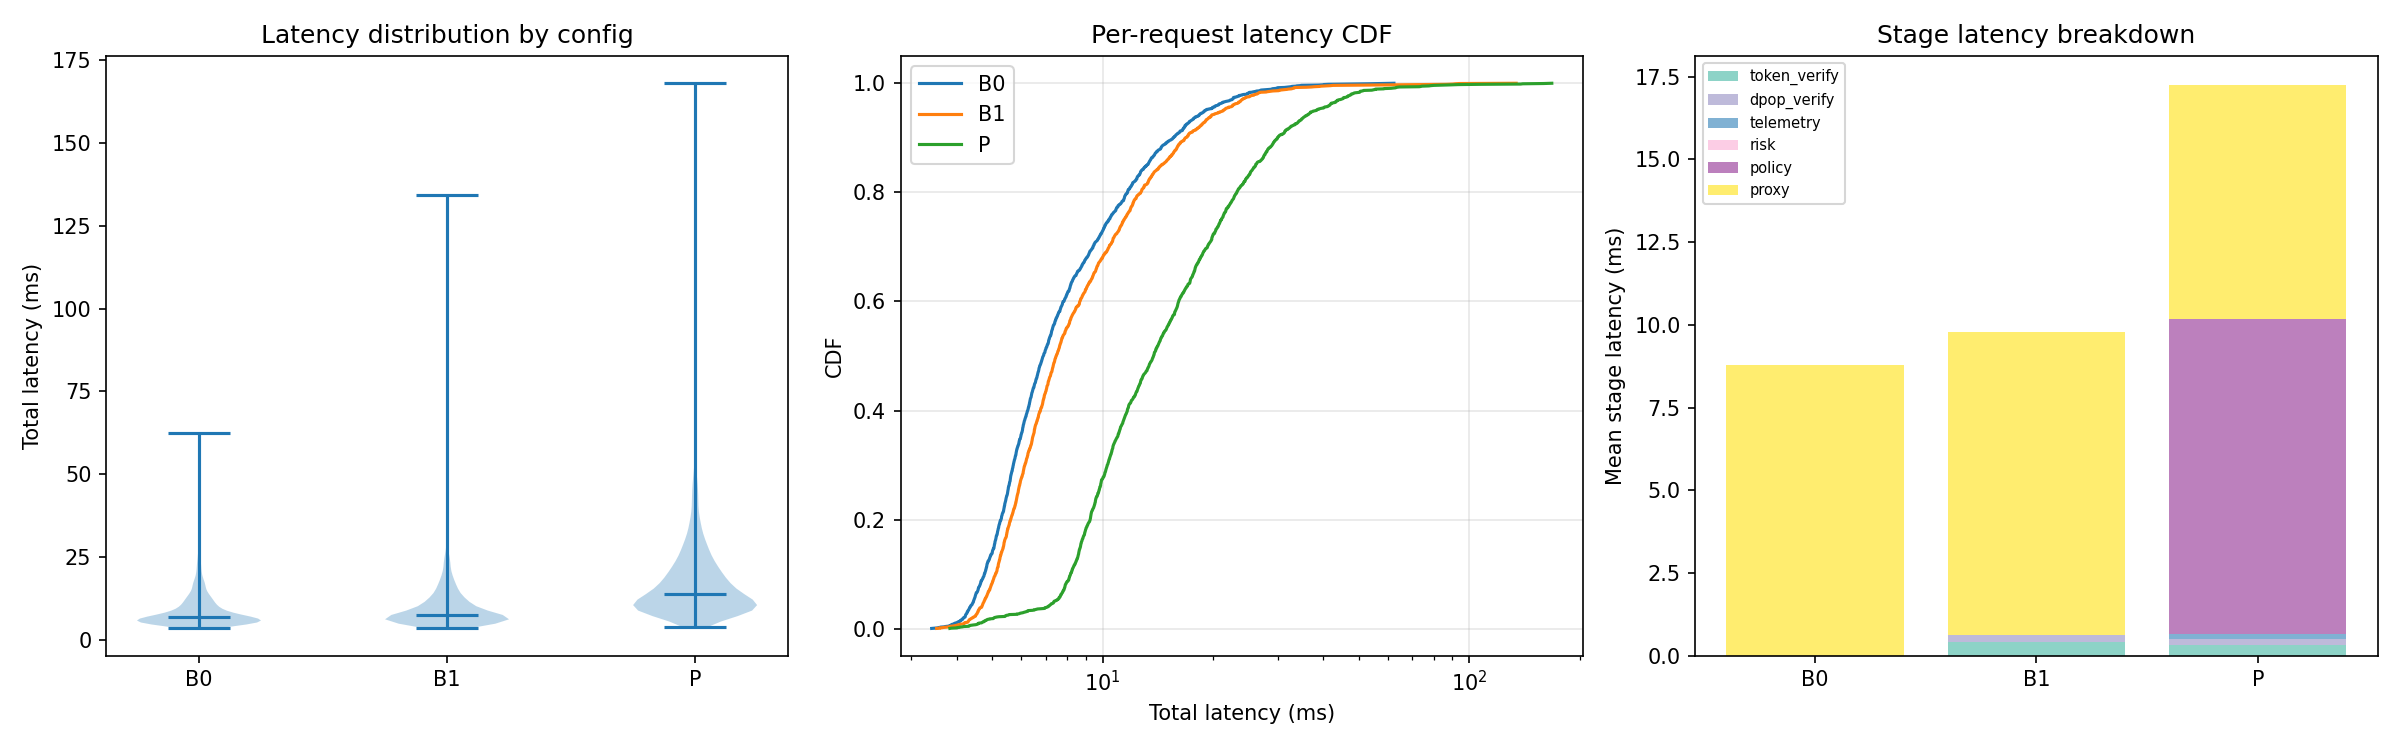
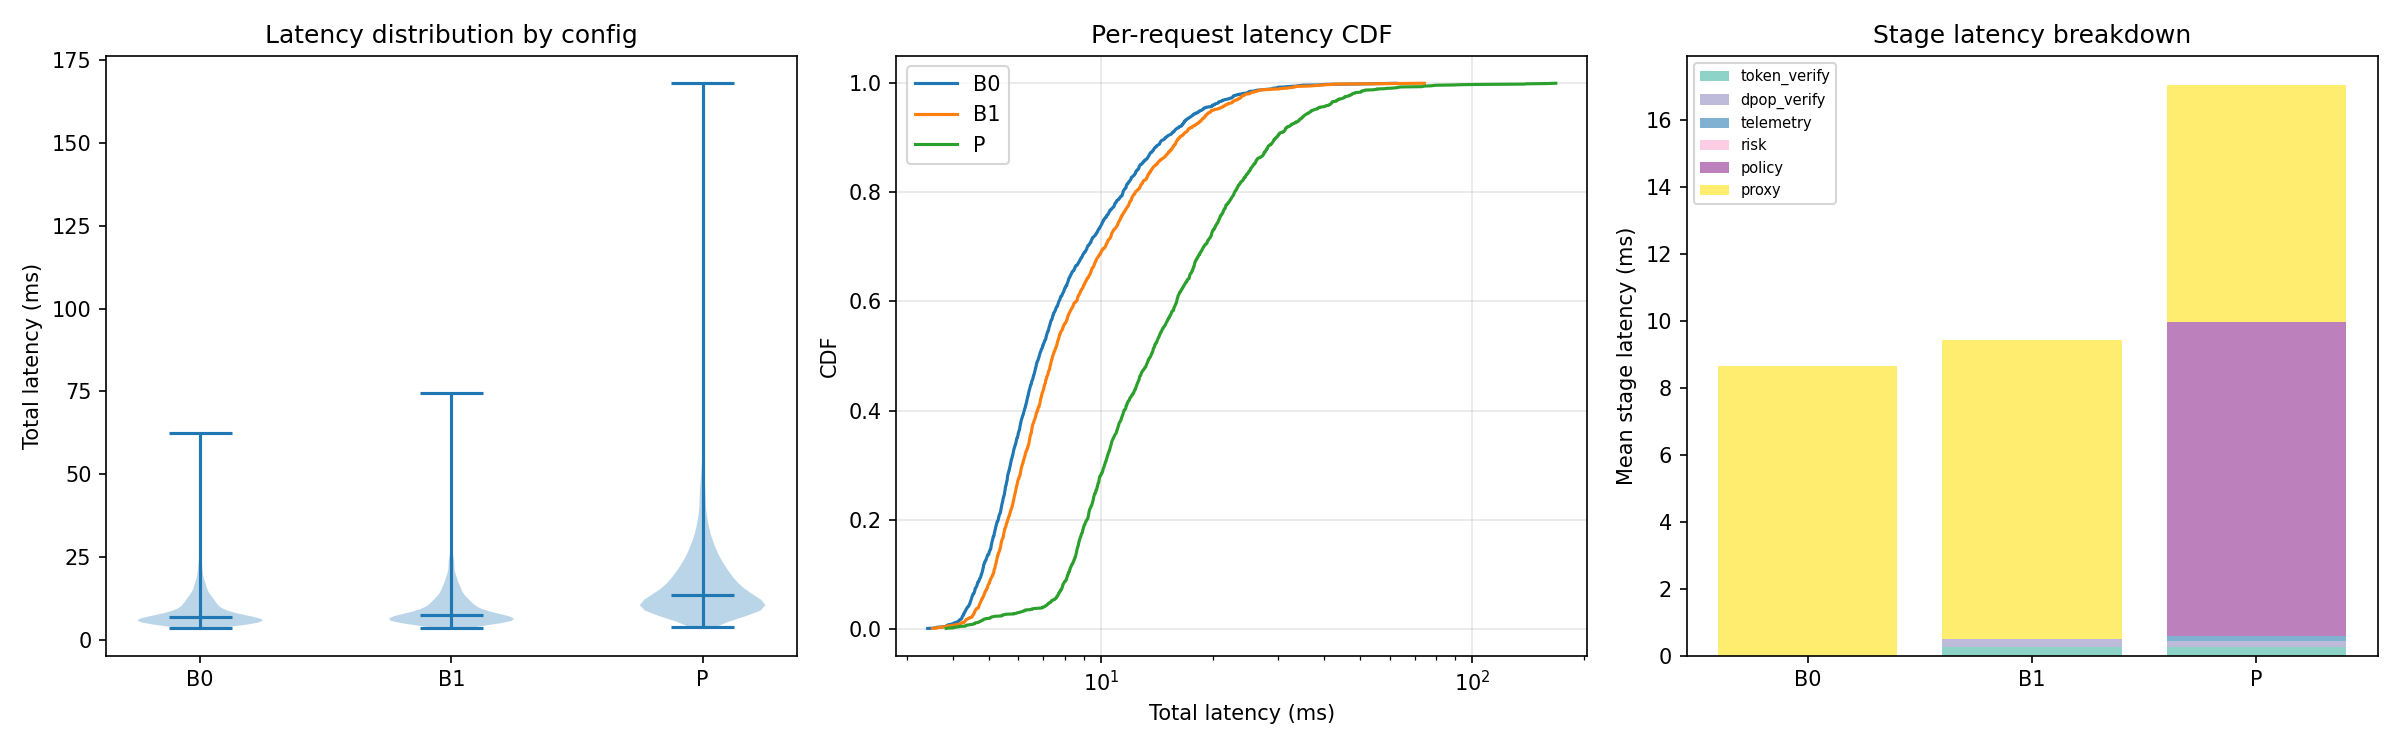
Add the load-scaling sweep and the warm-up exclusion §8 already promised
RQ2 asks for the overhead "across increasing load" and §7.3 cites a
throughput-vs-concurrency figure; every performance number came from a single
20-user run. `make scaling` sweeps 5/10/20/40 concurrent users per
configuration and the analysis recomputes achieved throughput from the
controller's own timestamps, so it counts the same requests the latency
percentiles do rather than a separately-scraped load-generator summary.

§8 states that warm-up is excluded and nothing implemented it. Each workload
starts against a freshly restarted container and the cold-start cost is large
enough to dominate a short run: the first sweep's 5-user B0 cell reported a
53 ms median against ~11 ms once the opening seconds are dropped, which made
the lowest-concurrency cell look like the slowest of the sweep. Analysis now
drops each run's first five seconds of legitimate traffic, which also removes
four spurious CHALLENGE decisions from Table 2.

Regenerated every table and figure. All are measured, and every number the
paper will cite traces to one of these CSVs.

diff --git a/analysis/make_figures.py b/analysis/make_figures.py
@@ -109,13 +109,37 @@ def _load_attack_summary(directory: Path) -> pd.DataFrame:
     return pd.DataFrame(rows)
 
 
-def _legit(df: pd.DataFrame, run_prefix: str = "") -> pd.DataFrame:
+WARMUP_SECONDS = 5.0
+
+
+def _drop_warmup_window(df: pd.DataFrame, seconds: float = WARMUP_SECONDS) -> pd.DataFrame:
+    """
+    Drop each run's first `seconds` of traffic.
+
+    §8 states that warm-up is excluded and nothing implemented it. It is not a
+    cosmetic exclusion: every workload starts against a freshly restarted
+    container, and the cold-start cost is large enough to dominate a short run
+    (the 5-user B0 scaling cell reports a 53 ms median over the whole run
+    against ~7 ms once the first seconds are dropped), which would make the
+    lowest-concurrency cell look like the slowest.
+    """
+    if df.empty or "ts" not in df.columns:
+        return df
+    out = df.copy()
+    out["_ts"] = pd.to_datetime(out["ts"], format="ISO8601", utc=True, errors="coerce")
+    start = out.groupby("run_id")["_ts"].transform("min")
+    out = out[out["_ts"] >= start + pd.Timedelta(seconds=seconds)]
+    return out.drop(columns=["_ts"])
+
+
+def _legit(df: pd.DataFrame, run_prefix: str = "", drop_warmup: bool = True) -> pd.DataFrame:
     """
     Legitimate workload requests only.
 
-    Excludes attack traffic and the harness warm-up requests that establish a
-    subject's baseline — the warm-up is instrumentation, not workload, and
-    counting it would dilute every rate reported per context profile.
+    Excludes attack traffic, the harness warm-up requests that establish a
+    subject's baseline (instrumentation, not workload — counting them would
+    dilute every rate reported per context profile), and each run's opening
+    warm-up window.
     """
     if df.empty:
         return df
@@ -123,6 +147,8 @@ def _legit(df: pd.DataFrame, run_prefix: str = "") -> pd.DataFrame:
              (df["request.context_profile"].isin(["stable", "drift"]))]
     if run_prefix:
         out = out[out["run_id"].astype(str).str.startswith(run_prefix)]
+    if drop_warmup:
+        out = _drop_warmup_window(out)
     return out
 
 
@@ -718,6 +744,75 @@ def table_risk_components(raw_df: pd.DataFrame):
         print("[OK] table7_risk_components.csv")
 
 
+# ─── Table 8 + figure: latency and throughput vs concurrency (RQ2) ──────────
+
+def table_scaling(raw_df: pd.DataFrame):
+    """
+    Table 8 — how the enforcement overhead moves as offered load rises.
+
+    RQ2 asks for the overhead "across increasing load" and a single
+    concurrency level cannot answer it. Achieved throughput is recomputed from
+    the controller's own timestamps rather than scraped from the load
+    generator's summary, so it counts the same requests the latency figures do.
+    """
+    if raw_df.empty:
+        return
+    scale = raw_df[raw_df["run_id"].astype(str).str.startswith("scale_")]
+    legit = _legit(scale)
+    if legit.empty:
+        print("[WARN] No scaling data for table8")
+        return
+    legit = legit.copy()
+    legit["_ts"] = pd.to_datetime(legit["ts"], format="ISO8601", utc=True, errors="coerce")
+    legit["users"] = legit["run_id"].astype(str).str.split("_").str[-1].astype(int)
+
+    rows = []
+    for (cfg, users), sub in legit.groupby(["run_label", "users"]):
+        vals = sub["latency_ms.total"].dropna()
+        if vals.empty:
+            continue
+        span = (sub["_ts"].max() - sub["_ts"].min()).total_seconds()
+        rows.append({
+            "Config": cfg,
+            "users": int(users),
+            "n": len(vals),
+            "achieved_rps": round(len(vals) / span, 2) if span > 0 else "",
+            "p50_ms": round(float(np.percentile(vals, 50)), 3),
+            "p95_ms": round(float(np.percentile(vals, 95)), 3),
+            "p99_ms": round(float(np.percentile(vals, 99)), 3),
+            "mean_ms": round(float(vals.mean()), 3),
+        })
+    if not rows:
+        return
+    df = pd.DataFrame(rows).sort_values(["Config", "users"])
+    df.to_csv(TBL_DIR / "table8_scaling.csv", index=False)
+    print("[OK] table8_scaling.csv")
+
+    fig, axes = plt.subplots(1, 2, figsize=(12, 5))
+    for cfg in CONFIGS:
+        sub = df[df["Config"] == cfg]
+        if sub.empty:
+            continue
+        axes[0].plot(sub["users"], sub["p50_ms"], "o-", label=f"{cfg} p50")
+        axes[0].plot(sub["users"], sub["p95_ms"], "s--", alpha=0.6, label=f"{cfg} p95")
+        axes[1].plot(sub["users"], pd.to_numeric(sub["achieved_rps"], errors="coerce"),
+                     "o-", label=cfg)
+    axes[0].set_xlabel("Concurrent users")
+    axes[0].set_ylabel("Latency (ms)")
+    axes[0].set_title("Latency vs concurrency")
+    axes[0].legend(fontsize=7)
+    axes[0].grid(alpha=0.3)
+    axes[1].set_xlabel("Concurrent users")
+    axes[1].set_ylabel("Achieved throughput (req/s)")
+    axes[1].set_title("Throughput vs concurrency")
+    axes[1].legend()
+    axes[1].grid(alpha=0.3)
+    fig.tight_layout()
+    fig.savefig(FIG_DIR / "fig4_scaling.png", dpi=150)
+    plt.close(fig)
+    print("[OK] fig4_scaling.png")
+
+
 # ─── Main ────────────────────────────────────────────────────────────────────
 
 def main():
@@ -737,6 +832,7 @@ def main():
     table_latency(raw_df)
     fig_latency(raw_df)
     table_resources()
+    table_scaling(raw_df)
     table_ablation(abl_df, raw_df)
     fig_ablation(abl_df, raw_df)
     table_effect_sizes(raw_df, atk_df)
